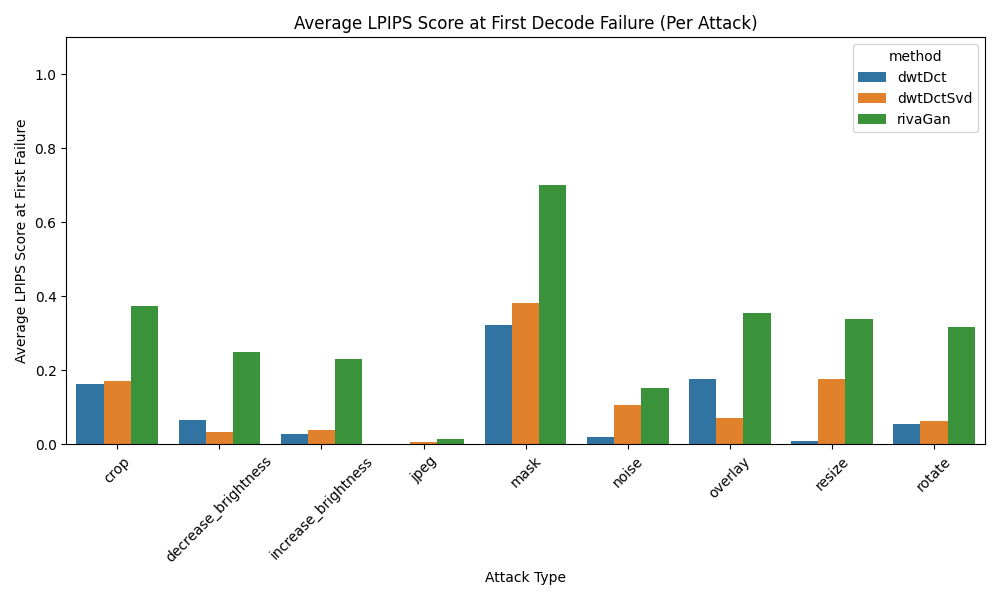
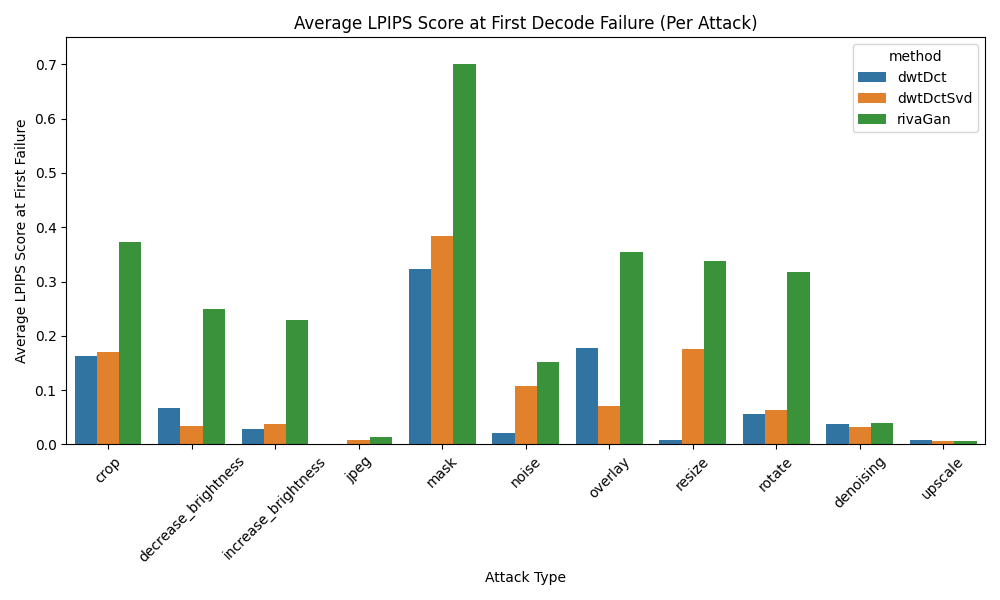
Adding denoising and upscale to graph

diff --git a/decode_lpips_results/visualize_LPIPS_vs_Threshold.py b/decode_lpips_results/visualize_LPIPS_vs_Threshold.py
@@ -503,7 +503,7 @@ if __name__ == "__main__":
     #plot_lpips_vs_severity_with_decode_markers(method="dwtDctSvd")
 
     df_summary = extract_first_failure_lpips_from_csv()
-    plot_avg_first_failure_lpips(df_summary, save_path="LPIPS_Threshold_Graphs/ALL_ATTACK_avg_first_failure_lpips.png")
+    plot_avg_first_failure_lpips(df_summary, "LPIPS_Threshold_Graphs/avg_first_failure_lpips.png")
 
     '''
     # Step 1: Extract the summary from the CSVs
